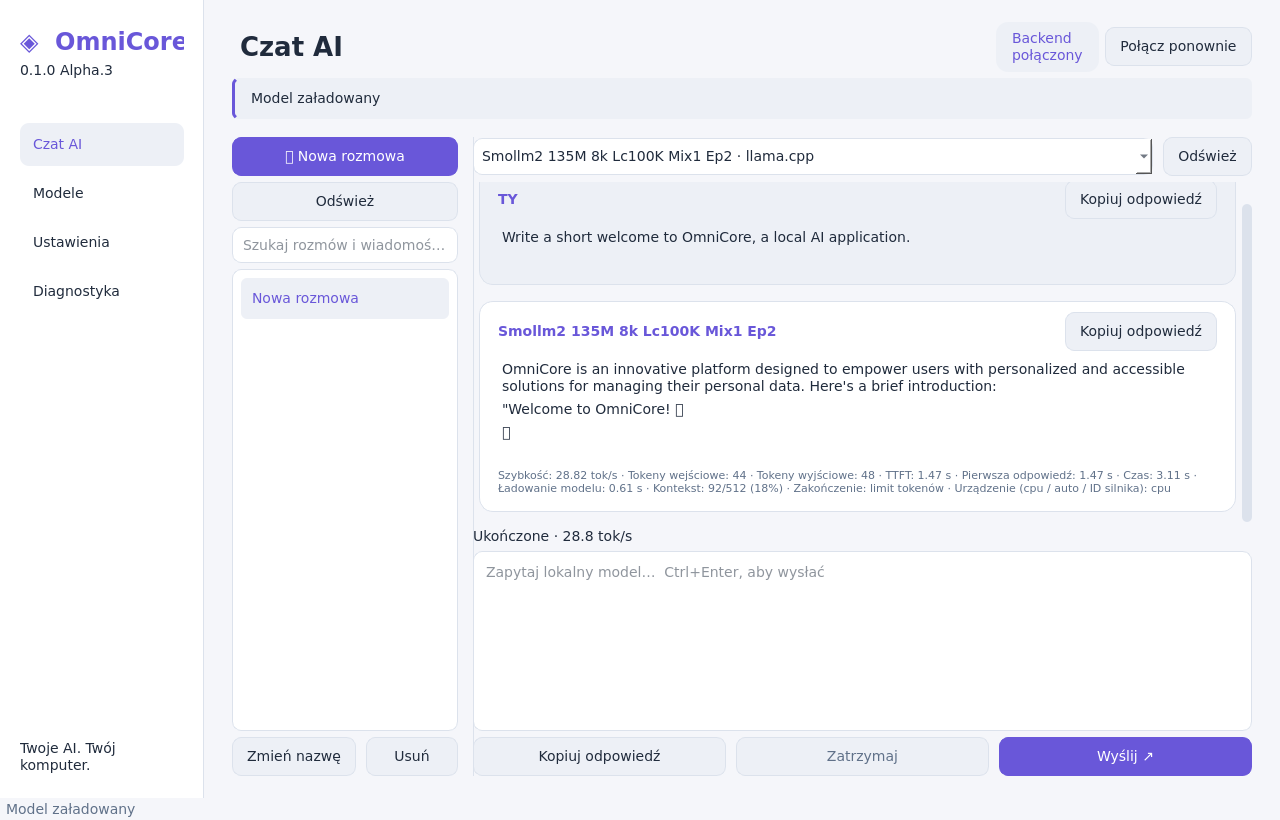
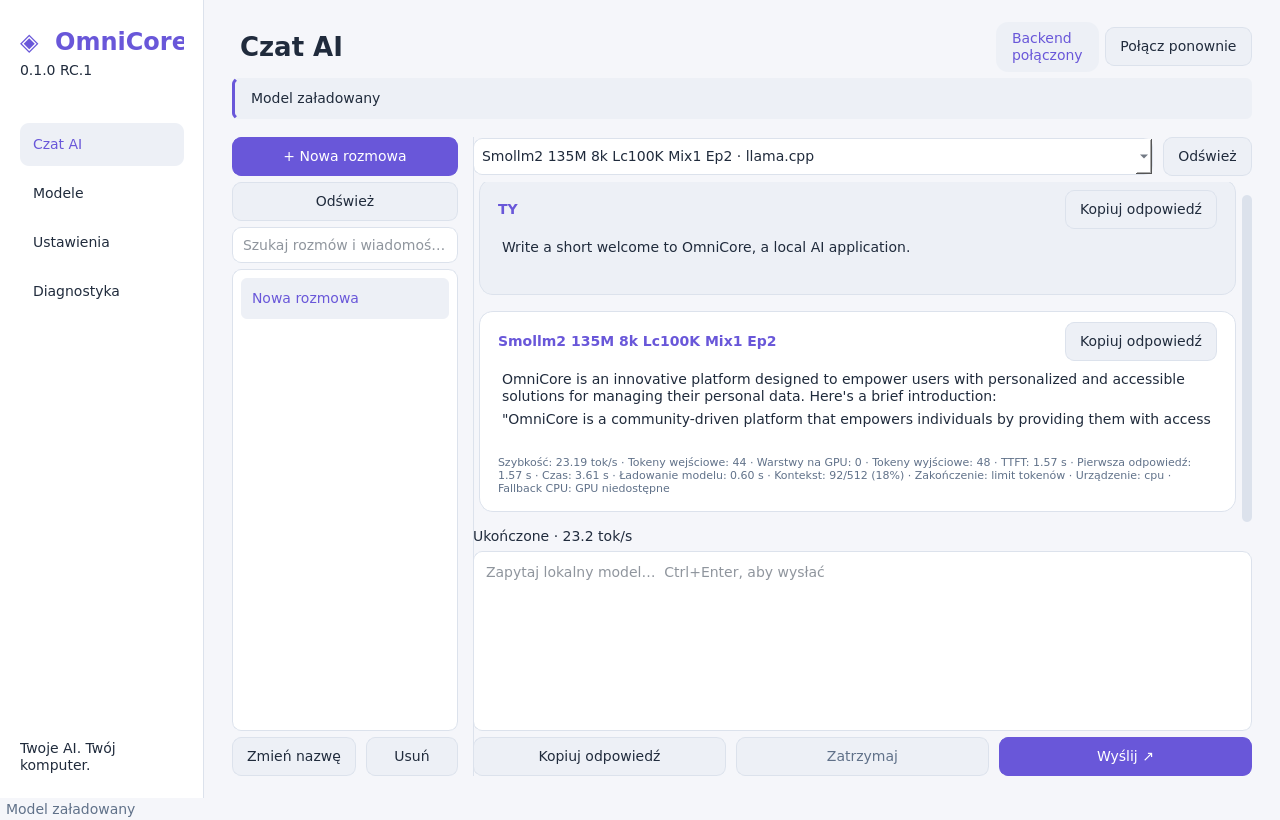
docs(rc1): record verified public assets, CI and remaining hardware gate

diff --git a/docs/PROGRESS.md b/docs/PROGRESS.md
@@ -821,3 +821,52 @@ rzeczywisty sys._MEIPASS i podkatalogi również z ORIG, zachowując ścieżki C
 Dodano regresję jednostkową i obowiązkowy test faktycznego wyekstrahowanego AppImage:
 natywna powłoka sprawdza brak _internal bez drukowania środowiska/sekretów.
 Nowe paczki muszą przejść tę kontrolę przed wydaniem RC.
+
+### RC.1 — potwierdzona dostawa GitHub i checkpoint do kontynuacji
+
+Źródło paczek: **09cd1d8f8f62b96512587a764b6f83ed452d0ef6**.
+PR #5 scalony (bez force push) do main jako
+**92a2ca02ccd06acfd81f63935d978703c73cf618**; oba drzewa źródeł są identyczne.
+CI PR: backend 40930829737 PASS (157 testów), Linux 40930829718 PASS
+(157 backend + 20 Qt = 177), Android 40930829695 PASS (44 JVM/lint/build,
+2 UI na API30 i 2 UI na API36, 0 fail/error według XML). CI main na checkpoint92:
+40932360138 backend, 40932360205 Linux i 40932360129 Android — wszystkie PASS.
+Wcześniejsze runy anulowane przy aktualizacji PR nie były błędami produktu.
+
+Rzeczywista inferencja: 4 testy pytest CPU (backend CPU/Auto, Qt cancel/close/restart,
+izolacja hardware tool), 1 dodatkowy test Auto z rzeczywistą binarką CUDA przy braku
+runtime oraz 1 rzeczywisty klient Kotlin + FastAPI/GGUF PASS. To nie inferencja GPU.
+Faktyczny CI AppImage testowano dodatkowo z prawdziwym GGUF CPU, restartem i digestem
+historii oraz kontrolą zagnieżdżonych bibliotek. Kanoniczny plik CI przeszedł również
+Wayland/Weston i X11/Xvfb z GGUF/restartem w kontenerze Arch. Nie testowano fizycznego
+CachyOS/RTX4060 ani telefonu. Zrzuty pochodzą z tego AppImage i emulatora API36
+(kontrolowany backend w teście interfejsu Android).
+
+Publiczne **prerelease RC.1** (nie Stable):
+https://github.com/vex2137/OmniCore/releases/tag/v0.1.0-rc.1
+ID 428235659, draft=false, prerelease=true, make_latest=false. Tag wskazuje merge92.
+Upload 40932563350 PASS: 11 załączników mają state=uploaded, niezerowe rozmiary i
+zweryfikowane server digest. Pobrano obie paczki ponownie z publicznych URL i
+obliczono zgodne SHA-256:
+
+| Plik | Bajty | SHA-256 |
+| --- | ---: | --- |
+| OmniCore-0.1.0-rc.1-x86_64.AppImage | 98707960 | 15bd847bda98abad9b6666f5897fe96012c0364ea964f475a5a219e203766a2d |
+| OmniCore-0.1.0-rc.1-android-arm64.apk | 18207561 | 7760e6d46ba4418331ef85b54f99f0c0432d24da08508edffa59822b8bfb69d2 |
+| OmniCore-llama-cuda-sm89.tar.gz | 250652194 | ef431c73583986be861f47068f119172b0434393d7ff8b2ff2764c8e972058e5 |
+
+Załączniki zawierają sumy, manifesty, test_omnicore_cachyos.sh, install_cuda_engine.sh
+i tools.sha256; bez wag. SM89 z CUDA12.6 ma potwierdzoną kompilację, nie inferencję.
+RC APK ma ID io.github.vex2137.omnicore.rc i podpis testowy; instaluje się obok Alpha.
+Nie deklarować aktualizacji APK podpisanego niedostępnym kluczem poprzedniego CI.
+
+Commity RC: 5f2f559 (wykrywanie/VRAM/offload), 1887845 (reasoning/SSE), 42d26fe
+(klienci/upgrade), 2e48568 (test sprzętowy/installer), d343707 (paczki/bramka),
+09cd1d8 (odtworzony i naprawiony błąd zagnieżdżonego LD_LIBRARY_PATH_ORIG).
+Starsze commity Alpha.3 zachowano w historii PR. Alpha.1/2 i szkic Alpha.3 pozostają.
+
+**Następny krok bez ponownego audytu:** właściciel uruchamia załączony test na obu
+GGUF, przekazuje nowy omnicore-hardware-*.json oraz wynik GUI Wayland i APK ARM64.
+Nie zastępować raportu wynikiem samego zewnętrznego llama-server. Nie publikować
+v0.1.0 Stable przed potwierdzeniem sprzętu i docelowego podpisywania. Szczegóły
+w RELEASE_GATE.md. Trwałe dane użytkownika nie były resetowane ani usuwane.

diff --git a/docs/RELEASE_GATE.md b/docs/RELEASE_GATE.md
@@ -4,8 +4,8 @@ Bieżąca paczka: **0.1.0-rc.1**, nie Stable. Zgoda na publiczne Stable obowiąz
 po testach i osobnym potwierdzeniu sprzętowym właściciela. Nie twórz tagu v0.1.0
 ani finalnego wydania przed potwierdzeniem poniższych punktów.
 
-- [ ] Końcowe CI CPU/Qt/JVM/lint/emulatory, oba artefakty i manifesty tego samego SHA.
-- [ ] Faktyczny AppImage: start/stop, GGUF CPU, historia i ustawienia po restarcie.
+- [x] Końcowe CI CPU/Qt/JVM/lint/emulatory, oba artefakty i manifesty tego samego SHA.
+- [x] Faktyczny AppImage: start/stop, GGUF CPU, historia i ustawienia po restarcie.
 - [ ] CachyOS/RTX4060: wykrywanie lokalnego llama-server CUDA, Auto/CPU/CUDA,
   faktyczny offload i VRAM, niepusta końcowa odpowiedź LFM3 oraz Qwen3.5.
 - [ ] Raport właściciela i potwierdzenie testu sprzętowego; wyniki muszą dotyczyć
@@ -26,8 +26,8 @@ Pobierz AppImage, oba skrypty i sumy z wydania RC. Sprawdź pliki `.sha256` i:
 chmod +x OmniCore-0.1.0-rc.1-x86_64.AppImage
 bash test_omnicore_cachyos.sh \
   ./OmniCore-0.1.0-rc.1-x86_64.AppImage \
-  /home/lunex/Pulpit/LFM3-1.7B-Q8_0.gguf \
-  /home/lunex/Pulpit/Qwen_Qwen3.5-4B-Q8_0.gguf
+  "$HOME/Pulpit/LFM3-1.7B-Q8_0.gguf" \
+  "$HOME/Pulpit/Qwen_Qwen3.5-4B-Q8_0.gguf"
 ```
 
 Nie potrzeba Pythona ani Ollamy. Test nie wymaga działającej sesji graficznej,
@@ -49,3 +49,13 @@ Po potwierdzeniu: zachować raport, zamknąć blokery, przygotować podpis produ
 zaktualizować wersjonowanie/CI, ponownie zbudować i sprawdzić paczki Stable, scalić,
 potwierdzić zdalne SHA, utworzyć v0.1.0 i publiczne finalne wydanie. RC nie może być
 przemianowana na Stable bez tej weryfikacji.
+
+## Zweryfikowany kandydat
+
+Publiczne [RC.1](https://github.com/vex2137/OmniCore/releases/tag/v0.1.0-rc.1)
+zawiera obie paczki, SHA-256, manifesty, skrypty z sumą i opcjonalny silnik SM89.
+Źródło paczek: `09cd1d8f8f62b96512587a764b6f83ed452d0ef6`; tag RC wskazuje merge
+`92a2ca02ccd06acfd81f63935d978703c73cf618`, o identycznym drzewie źródeł.
+Nie istnieje tag ani Stable v0.1.0. Kolejny etap wymaga raportu sprzętowego właściciela.
+Przy ręcznym teście GUI użyj Auto oraz kontekstu 4096 jak w udanym zewnętrznym teście;
+RC nie zmienia automatycznie zachowanego wcześniej kontekstu 100000.

diff --git a/README.md b/README.md
@@ -9,6 +9,10 @@ przesunięte przed Image AI. GGUF działa przez llama.cpp **bez Ollamy**; rzeczy
 przepływ import/load/generowanie/anulowanie/historia przeszedł test na CPU ze
 SmolLM2-135M-Instruct Q4_K_M. Nie oznacza to zgodności wszystkich modeli lub GPU.
 
+[**Pobierz 0.1.0 RC.1**](https://github.com/vex2137/OmniCore/releases/tag/v0.1.0-rc.1)
+([AppImage](https://github.com/vex2137/OmniCore/releases/download/v0.1.0-rc.1/OmniCore-0.1.0-rc.1-x86_64.AppImage),
+[APK ARM64](https://github.com/vex2137/OmniCore/releases/download/v0.1.0-rc.1/OmniCore-0.1.0-rc.1-android-arm64.apk), sumy i test sprzętowy w załącznikach).
+
 Wersja **0.1.0-rc.1** przygotowuje pierwsze Stable: automatycznie wykrywa lokalne
 silniki CUDA (m.in. `~/llama.cpp/build/bin/llama-server`), rozróżnia CPU/Auto/CUDA,
 potwierdza offload i zachowuje CPU fallback. AppImage zawiera niezależny silnik CPU;

diff --git a/docs/ANDROID.md b/docs/ANDROID.md
@@ -206,3 +206,10 @@ aktualizacji APK podpisanego innym kluczem. RC wymaga własnego adresu/tokena; p
 połączeniu widzi istniejącą historię serwera. Wybór Auto/CPU/CUDA dotyczy komputera.
 Wynik fizycznego Androida oraz trwałe podpisywanie są bramkami Stable:
 [RELEASE_GATE.md](RELEASE_GATE.md).
+
+Przy współdzieleniu istniejącej historii uruchamiaj jeden backend: zamknij GUI z
+prywatnym serwerem przed startem serwera LAN na tej samej bazie. Ustaw świadomie
+OMNICORE_MODEL_ROOTS (np. katalog Pulpit z modelami), allowed hosts i token zgodnie
+z powyższą instrukcją. Desktop można potem podłączyć do tego serwera przez
+OMNICORE_DESKTOP_URL i OMNICORE_DESKTOP_TOKEN (token w środowisku, nie w argumentach
+ani logach). Nie uruchamiaj dwóch niezależnych backendów do tej samej bazy.

diff --git a/docs/ROADMAP.md b/docs/ROADMAP.md
@@ -347,3 +347,7 @@ zaimplementowane. Pozostają finalne paczki/CI RC i test właściciela na CachyO
 oraz telefonie. Trwały produkcyjny podpis Androida jest oddzielną bramką; RC ma
 osobny identyfikator, aby nie wymagać usuwania wcześniejszej Alpha.
 Nie publikować v0.1.0 przed [potwierdzeniem](RELEASE_GATE.md).
+
+RC.1 jest udostępniona jako publiczne prerelease z 11 załącznikami. Main zawiera
+implementację po PR #5, CI źródła i main PASS. Następny krok: potwierdzenie raportu
+CachyOS/RTX4060 i telefonu oraz docelowego podpisywania, zgodnie z RELEASE_GATE.md.
